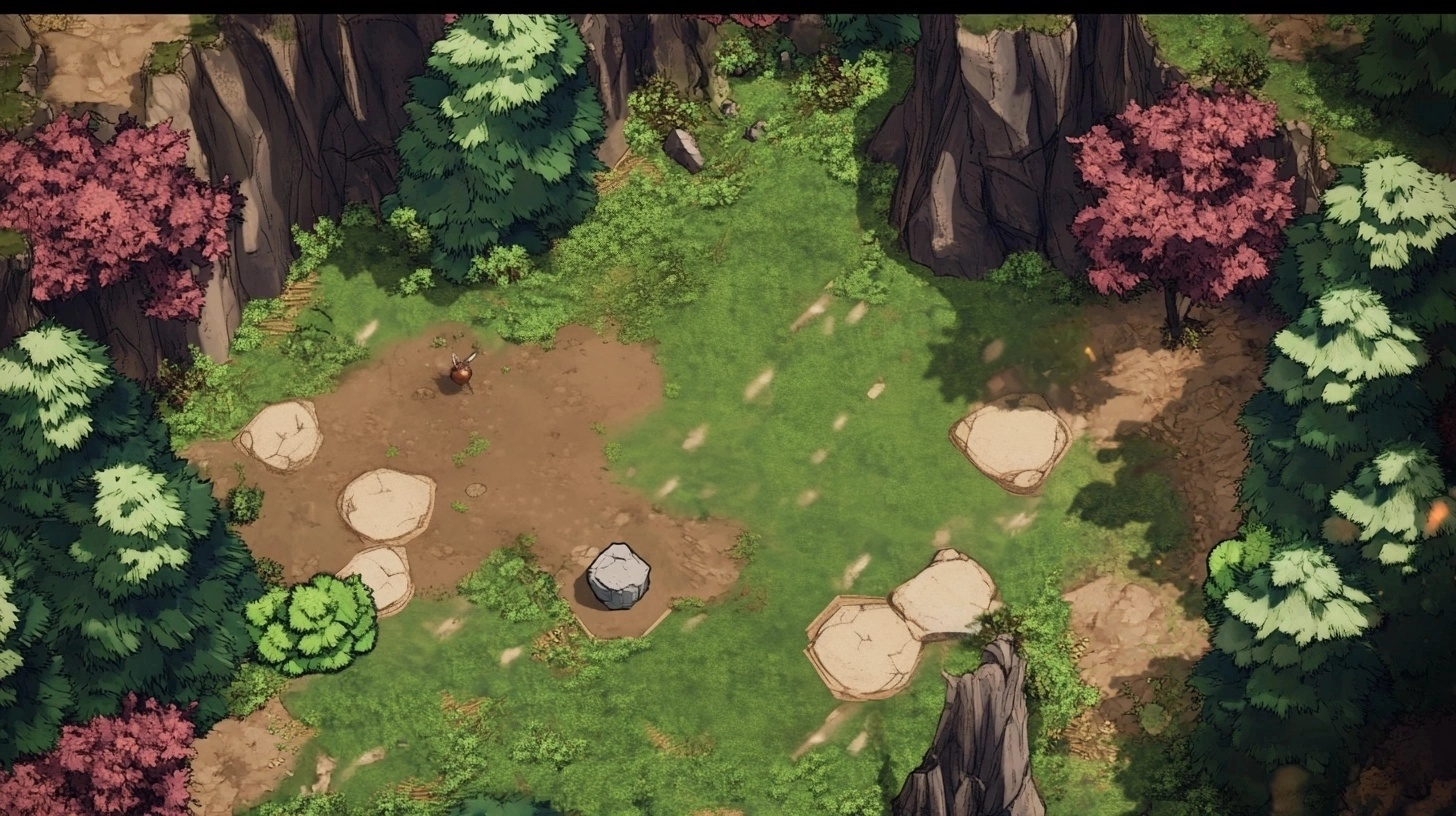
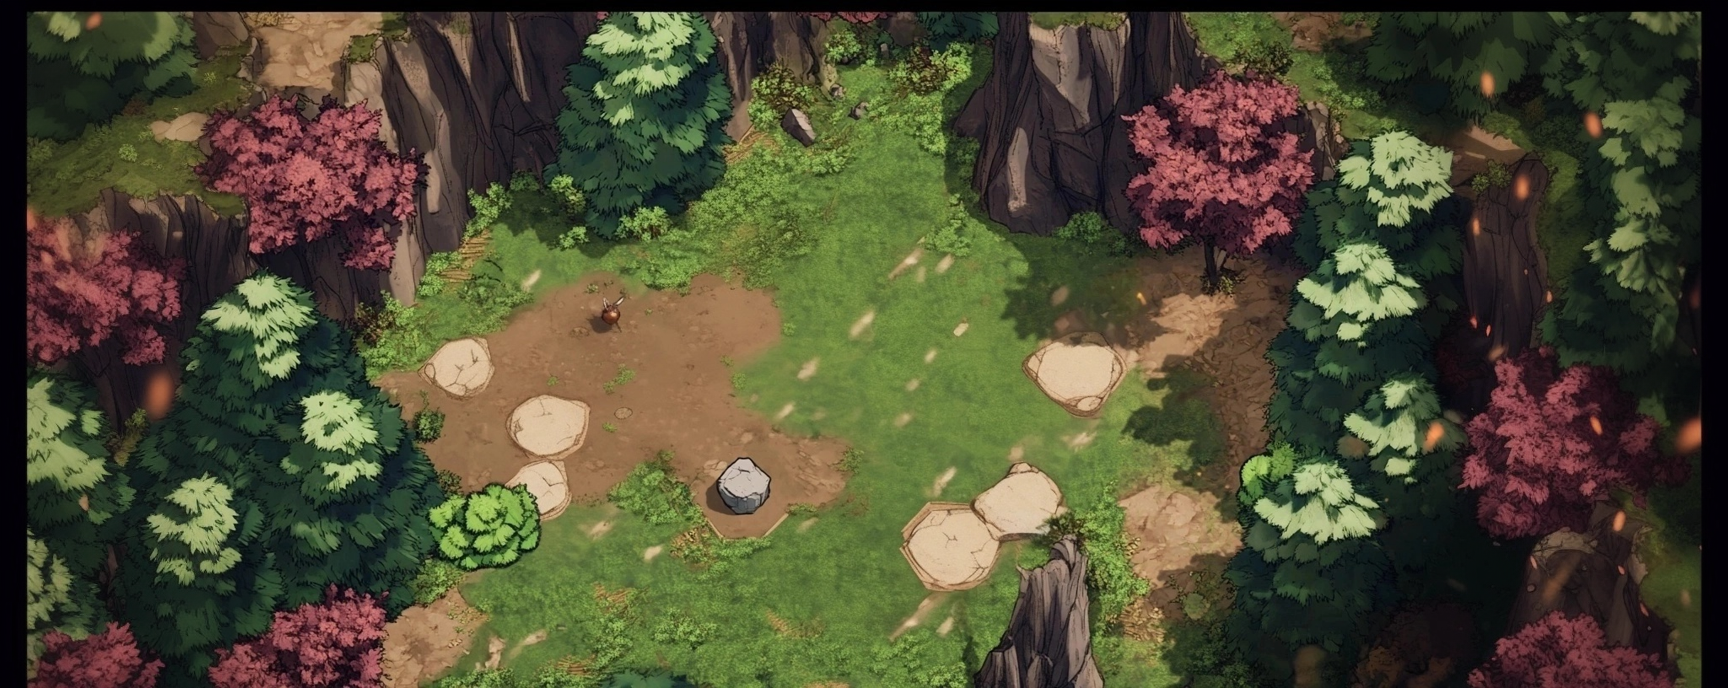
Scenery

diff --git a/client/src/game/Arena.ts b/client/src/game/Arena.ts
@@ -57,6 +57,8 @@ import thudSFX from '@assets/sfx/thud.wav';
 import speechBubble from '@assets/speech_bubble.png';
 import speechTail from '@assets/speech_tail.png';
 
+import arenaBg from '@assets/arenabg.png';
+
 // Static imports for tile atlas
 import groundTilesImage from '@assets/tiles2.png';
 import groundTilesAtlas from '@assets/tiles2.json';
@@ -271,6 +273,8 @@ export class Arena extends Phaser.Scene
             this.load.off('complete');
         });
         this.connectToServer();
+
+        this.load.image('arenaBg', arenaBg);
     }
 
     extractGameIdFromUrl() {
@@ -1359,6 +1363,108 @@ export class Arena extends Phaser.Scene
     // PhaserCreate
     create()
     {
+        // Add the background image first so it's behind everything else
+        const bg = this.add.image(this.cameras.main.width / 2, this.cameras.main.height / 2, 'arenaBg')
+            .setDepth(0)
+            .setOrigin(0.5, 0.5);
+        
+        // Apply a basic scale to cover the screen initially
+        const baseScaleX = this.cameras.main.width / bg.width;
+        const baseScaleY = this.cameras.main.height / bg.height;
+        const baseScale = Math.max(baseScaleX, baseScaleY);
+        bg.setScale(baseScale);
+        
+        // Handle window resizing
+        this.scale.on('resize', (gameSize) => {
+            const newScaleX = gameSize.width / bg.width;
+            const newScaleY = gameSize.height / bg.height;
+            const newScale = Math.max(newScaleX, newScaleY);
+            
+            bg.setScale(newScale);
+            bg.setPosition(gameSize.width / 2, gameSize.height / 2);
+        });
+        
+        // Follow camera movement - keep background centered on screen
+        this.cameras.main.on('camerascroll', () => {
+            if (!bg) return;
+            
+            // Keep background centered on the camera's view
+            const centerX = this.cameras.main.scrollX + this.cameras.main.width / 2;
+            const centerY = this.cameras.main.scrollY + this.cameras.main.height / 2;
+            
+            bg.setPosition(centerX, centerY);
+        });
+        
+        // Create sunbeam effects
+        const createSunbeams = () => {
+            // Create container at fixed screen position
+            const beamsContainer = this.add.container(
+                this.cameras.main.width / 2, 
+                this.cameras.main.height / 2
+            )
+            .setDepth(0.5)
+            .setScrollFactor(0); // Fix the beams in place relative to the camera
+            
+            // Choose a consistent angle for all beams (45 degrees diagonal)
+            const beamAngle = -45; // Negative for top-right to bottom-left direction
+            
+            // Create multiple beams with different scales and opacities
+            for (let i = 0; i < 8; i++) {
+                // Create a light beam - using a rectangle with gradient
+                const beam = this.add.graphics();
+                
+                // Only vary the size and position, not the angle
+                const width = Phaser.Math.Between(800, 1500);
+                const height = Phaser.Math.Between(100, 200);
+                
+                // Adjust the position to create an evenly distributed pattern
+                // This spreads the beams across the screen in the same direction
+                const offsetX = Phaser.Math.Between(-500, 500);
+                const offsetY = Phaser.Math.Between(-400, 400);
+                
+                // Create a gradient fill with warm colors
+                // Use golden/amber/orange colors instead of white
+                const color1 = 0xFFD700; // Golden yellow
+                const color2 = 0xFFA500; // Light orange
+                
+                beam.fillGradientStyle(
+                    color1, color1, color2, color2,
+                    0.07 + Math.random() * 0.15, 0.07 + Math.random() * 0.15, 0, 0
+                );
+                
+                // Draw the beam
+                beam.fillRect(-width/2, -height/2, width, height);
+                
+                // Position and rotate the beam
+                beam.setPosition(offsetX, offsetY);
+                beam.setRotation(Phaser.Math.DegToRad(beamAngle));
+                
+                // Add to container
+                beamsContainer.add(beam);
+                
+                // Animate the beam - slow pulsing
+                this.tweens.add({
+                    targets: beam,
+                    alpha: { from: beam.alpha, to: beam.alpha * 0.6 },
+                    duration: Phaser.Math.Between(8000, 15000),
+                    ease: 'Sine.easeInOut',
+                    yoyo: true,
+                    repeat: -1
+                });
+            }
+            
+            return beamsContainer;
+        };
+        
+        // Create the sunbeams
+        // const sunbeams = createSunbeams();
+        
+        // // Update sunbeams position on window resize
+        // this.scale.on('resize', (gameSize) => {
+        //     // Reposition the sunbeams container to center of screen
+        //     sunbeams.setPosition(gameSize.width / 2, gameSize.height / 2);
+        // });
+        
         this.loadBackgroundMusic();
         this.setUpArena();
         this.createAnims();
@@ -1497,7 +1603,7 @@ export class Arena extends Phaser.Scene
         this.placeCharacters(data.opponent.team, this.teamsMap.get(data.opponent.teamId), isReconnect);
 
         const tilesDelay = isReconnect ? 0 : 1000;
-        this.floatTiles(tilesDelay);
+        // this.floatTiles(tilesDelay);
 
         this.processTerrain(data.terrain); // Put after floatTiles() to allow for tilesMap to be intialized
 

diff --git a/shared/config.ts b/shared/config.ts
@@ -70,7 +70,7 @@ export const ENABLE_SETTINGS = true;
 export const ENABLE_ELYSIUM = false;
 
 // Admin
-export let FREEZE_AI = true;
+export let FREEZE_AI = false;
 export const STARTING_GOLD_ADMIN = 100000;
 export const STARTING_SPELLS_ADMIN = [2];
 export const STARTING_EQUIPMENT_ADMIN = [2];
@@ -168,7 +168,7 @@ export const UNLOCK_REWARDS = {
 
 export const remoteConfig = {
     AUTO_DEFEAT: false,
-    AUTO_WIN: true,
+    AUTO_WIN: false,
     HIGH_DAMAGE: false,
     FAST_MODE: true,
     COOLDOWN_OVERRIDE: 500,

diff --git a/client/src/game/game.ts b/client/src/game/game.ts
@@ -5,13 +5,13 @@ import RoundRectanglePlugin from 'phaser3-rex-plugins/plugins/roundrectangle-plu
 let gameWidth;
 let gameHeight;
 
-gameWidth = 1800;
-gameHeight = 900;
+gameWidth = 1920;
+gameHeight = 1080;
 
 const config = {
     type: Phaser.WEBGL,
     scale: {
-        mode: Phaser.Scale.FIT,
+        mode: Phaser.Scale.ENVELOP,
         autoCenter: Phaser.Scale.CENTER_BOTH,
         width: Math.ceil(gameWidth),
         height: Math.ceil(gameHeight),
